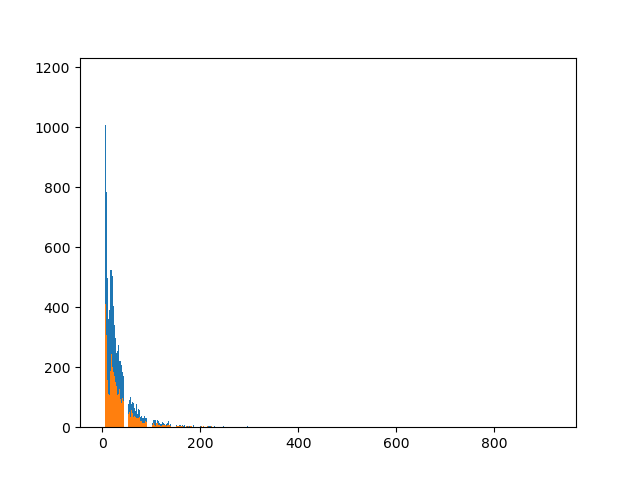
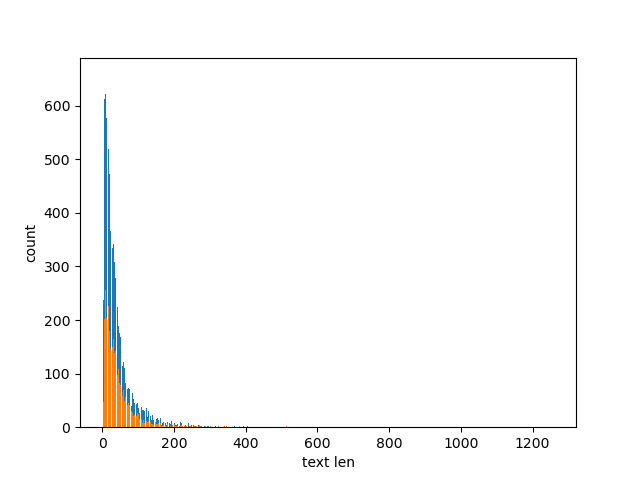
final update

diff --git a/Project2/data.py b/Project2/data.py
@@ -57,7 +57,7 @@ def add_mask(text: str):
     return " ".join(text)
 
 def clean_text(text: str):
-    stopword_drop_ratio = 0.5
+    stopword_drop_ratio = 0
     nltk_stopwords = nltk.corpus.stopwords.words('english')
     words = nltk.corpus.words.words()
     lemmatizer = nltk.stem.WordNetLemmatizer()
@@ -84,7 +84,7 @@ def clean_text(text: str):
     processed_text = []
     
     for t in text:
-        if (fdist[t] > fdist.N() * 0.05 or t in nltk_stopwords) and random.random() < stopword_drop_ratio:
+        if (fdist[t] > fdist.N() or t in nltk_stopwords) and random.random() < stopword_drop_ratio:
             continue
         t = lemmatizer.lemmatize(t)
         processed_text.append(t)
@@ -110,10 +110,10 @@ def read_data(data_path, tokenizer_root='bert-base-uncased', max_length=128, mod
             t += row['title'] + ' '
         if "comment" in type:
             t += row['text'] + ' '
-            
-        if mode != 'train' or \
-            (row['verified_purchase'] or random.random() > verified_drop_ratio) or \
-            (row['helpful_vote'] > 0 or random.random() > helpful_drop_ratio):
+        if True:
+        # if mode != 'train':
+            # (row['helpful_vote'] > 0 or random.random() > helpful_drop_ratio):
+            # (row['verified_purchase'] or random.random() > verified_drop_ratio) or \
             t = clean_text(t)
             if mode == "train" and random.random() < masked_ratio:
                 t = add_mask(t)
@@ -138,7 +138,9 @@ def read_data(data_path, tokenizer_root='bert-base-uncased', max_length=128, mod
         print(f'Quot of len: {text_len[int(text_len.size * 0.95)]}')
         
         plt.bar(x, h)
-        plt.savefig('analyze/text_len.png')
+        plt.xlabel('text len')
+        plt.ylabel('count')
+        plt.savefig(f'analyze/text_len.png')
         
     return TextData(text, label if mode != "test" else None, tokenizer, max_length, mode)
     

diff --git a/Project2/agent.py b/Project2/agent.py
@@ -24,7 +24,7 @@ class TrainingAgent():
         parser.add_argument("--lr", nargs='?', type=float, default=2e-5)
         parser.add_argument("--weight_decay", nargs='?', type=float, default=1e-2)
         parser.add_argument("--dropout_ratio", nargs='?', type=float, default=0.2)
-        parser.add_argument("--max_length", nargs='?', type=int, default=128)
+        parser.add_argument("--max_length", nargs='?', type=int, default=256)
         parser.add_argument("--model_root", nargs='?', type=str, default='bert-base-uncased')
         parser.add_argument("--model_save", nargs='?', type=str, default='temp')
         parser.add_argument('--text_type', nargs='?', type=str, default='title_comment', help="[title_comment, title, comment]")
